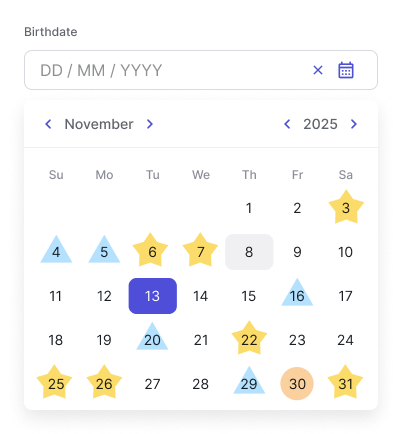
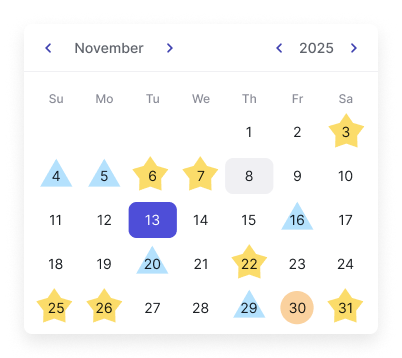
chore(docs): update calendar dont image (#500)
* chore(docs): update calendar dont image

* chore(docs): leeeets just make that a tad smaller

diff --git a/.changeset/seven-months-press.md b/.changeset/seven-months-press.md
@@ -1,0 +1,5 @@
+---
+"@commercetools/nimbus": patch
+---
+
+Update image for Calendar docs.
